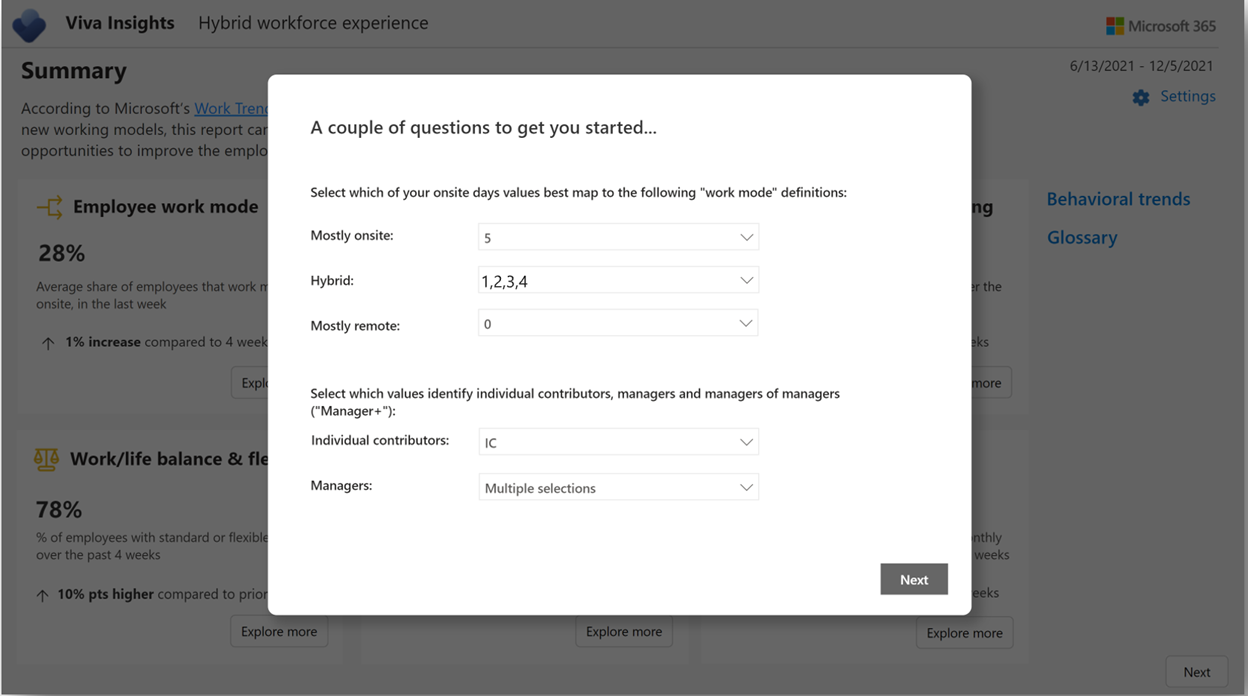
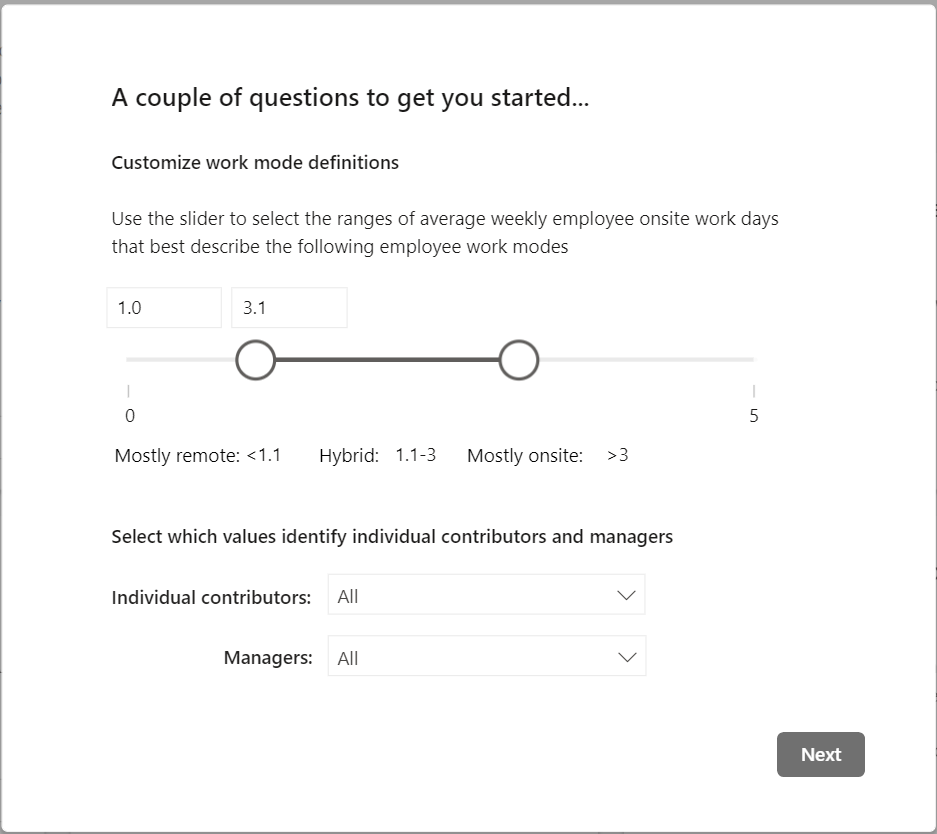
Updates
Updates per FS--content and images. Removed duplicate image.

diff --git a/Viva/insights/Tutorials/hybrid-workforce-experience.md b/Viva/insights/Tutorials/hybrid-workforce-experience.md
@@ -92,7 +92,7 @@ For more details on how to add new data for existing employees, review the docum
     1. Set the **Minimum group size** for data aggregation within this dashboard's visualizations in accordance with your company's policy for viewing data.
     1. Select **Load** to import the query results into Power BI. Loading these large files might take between a few minutes and a few hours to complete.
     :::image type="complex" source="../images/wpa/tutorials/hwfe-edit-parameters.png" alt-text="Screenshot of Edit Parameters window in Power BI":::
-       Screenshot that shows the "Edit Parameters" window within Power BI. Each part of the image is labeled with the sub-step above to which it corresponds, "b" - "f". The first two sections, "Hybrid work person query file path" and "Hybrid work person-to-person query file path," are highlighted and labeled "b." Beneath each section header is an editable field that contains a file path to a .csv file; the first field, for the Person query, contains a path to a HybridWorkforceExp.csv file and the second field, for the Person-to-person query, contains a path to a StrongAndDiverseTies.csv file. The next field is titled, "Number of onsite days," has a "c" label to its right, and its editable field contains the text, "OnsiteDays." The next field is titled, "SupervisorIndicator," has a "d" label to its right, and its editable field contains the text, "SupervisorIndicator." The second-to-last field is titled, "Hire date," has an "e" label to its right, and its editable field contains the text, "HireDate." The last field is titled, "Minimum group size," has an "f" label to its right, and its editable field contains "5" selected from a dropdown menu.  
+       Screenshot that shows the "Edit Parameters" window within Power BI. Each part of the image is labeled with the sub-step above to which it corresponds, "b" - "f". The first two sections, "Hybrid workforce experience query path" and "Strong and diverse ties query path," are highlighted and labeled "b." Beneath each section header is an editable field that contains a file path. The next field is titled, "OnsiteDays," has a "c" label to its right, and its editable field contains the text, "OnsiteDays." The next field is titled, "SupervisorIndicator," has a "d" label to its right, and its editable field contains the text, "SupervisorIndicators." The second-to-last field is titled, "Hire date," has an "e" label to its right, and its editable field contains the text, "HireDate." The last field is titled, "Minimum group size," has an "f" label to its right, and its editable field contains "5" selected from a dropdown menu.  
     :::image-end:::
 
 1. If you're already signed in to Power BI with your organizational account, the dashboard visualizations will populate with your data. At this point, you’ve completed the setup process and can skip to [Customize the dashboard](#customize-the-dashboard).
@@ -119,11 +119,11 @@ After the **Workforce experience** dashboard is set up and populated with Viva I
 * **Individual contributor** – Select the attribute values that identify employees as individual contributors who do not manage people within your organization.
 * **Manager indicator** – Select the attribute values that identify managers who manage people within your organization, like **Mgr** and **Mgr+**.
 
-    :::image type="complex" source="../images/wpa/tutorials/hwfe-a-couple-of-questions-cropped.png" alt-text="Screenshot of pop-up window in Power BI prompting users to assign onsite days to attributes and values to Individual contributors and Managers":::
-       Screenshot that shows a pop-up window in Power BI, titled "A couple of questions to get you started..." There are two sections; the first section is titled, "Select which of your onsite days values best map to the following 'work mode' definitions" and the second section is titled "Select which values identify individual contributors, managers and managers of managers," which is parenthetically defined as "Manager" with a plus icon--"Manager-plus." In the first section, there are three fields, and each contain a dropdown menu to their right: "Mostly onsite," which shows "5" in the dropdown menu, "Hybrid," which shows "1,2,3,4" in the dropdown menu, and "Mostly remote," which shows "0" in the dropdown menu. In the second section, there are two fields, and each also contain a dropdown menu to their right: "Individual contributors," which shows "IC" in the dropdown menu, and "Managers," which shows "Multiple selections" in the dropdown menu.
+    :::image type="complex" source="../images/wpa/tutorials/hwfe-a-couple-of-questions.png" alt-text="Screenshot of pop-up window in Power BI prompting users to assign onsite days to attributes and values to Individual contributors and Managers":::
+       Screenshot that shows a pop-up window in Power BI, titled "A couple of questions to get you started..." There are two sections; the first section is titled, "Customize work mode definitions" and the second section is titled, "Select which values identify individual contributor and managers. In the first section, there is a slider with values 0 and 5. Beneath those values are a "Mostly remote: <1.1" label to the left, a "Hybrid: 1.1-3" label in the middle, and a "Mostly onsite: >3" label on the right. The slider is between "Mostly remote" and "Mostly onsite"; a value on its left is "3.1."  In the second section, there are two fields, and each also contain a dropdown menu to their right: "Individual contributors," which shows "All" in the dropdown menu, and "Managers," which also shows "All" in the dropdown menu.
     :::image-end:::
 
-After this initial prompt, you can then select **Settings** in the upper right of any page to view and change the following attribute values:
+After this initial prompt, you can then select **Settings** in the upper right of any page to adjust the work mode mappings and view and change the following attribute values:
 
 * **Select the time period for the dashboard** – Select the time period for which you want to view data in the dashboard.
 * **Select an attribute to group data by** – Select the primary group-by attribute shown in all the report pages. You can change this attribute at any time and all reportages will show group values by the new attribute.
@@ -131,6 +131,8 @@ After this initial prompt, you can then select **Settings** in the upper right o
 * Exclusions – Use the check boxes to:
   * Exclude employees who are likely non-knowledge workers (that is, those spending less than five hours per week in meetings, emails, and/or Teams calls and chats).
   * Exclude weeks that are likely holiday weeks.
+
+To adjust the individual contributors and managers mappings, go to the bookmarks in the bottom-left of your screen. Underneath **Summary**, select **Intro_ON** to reopen the initial prompt.
 
 ## Power BI tips, troubleshooting, and FAQs
 
